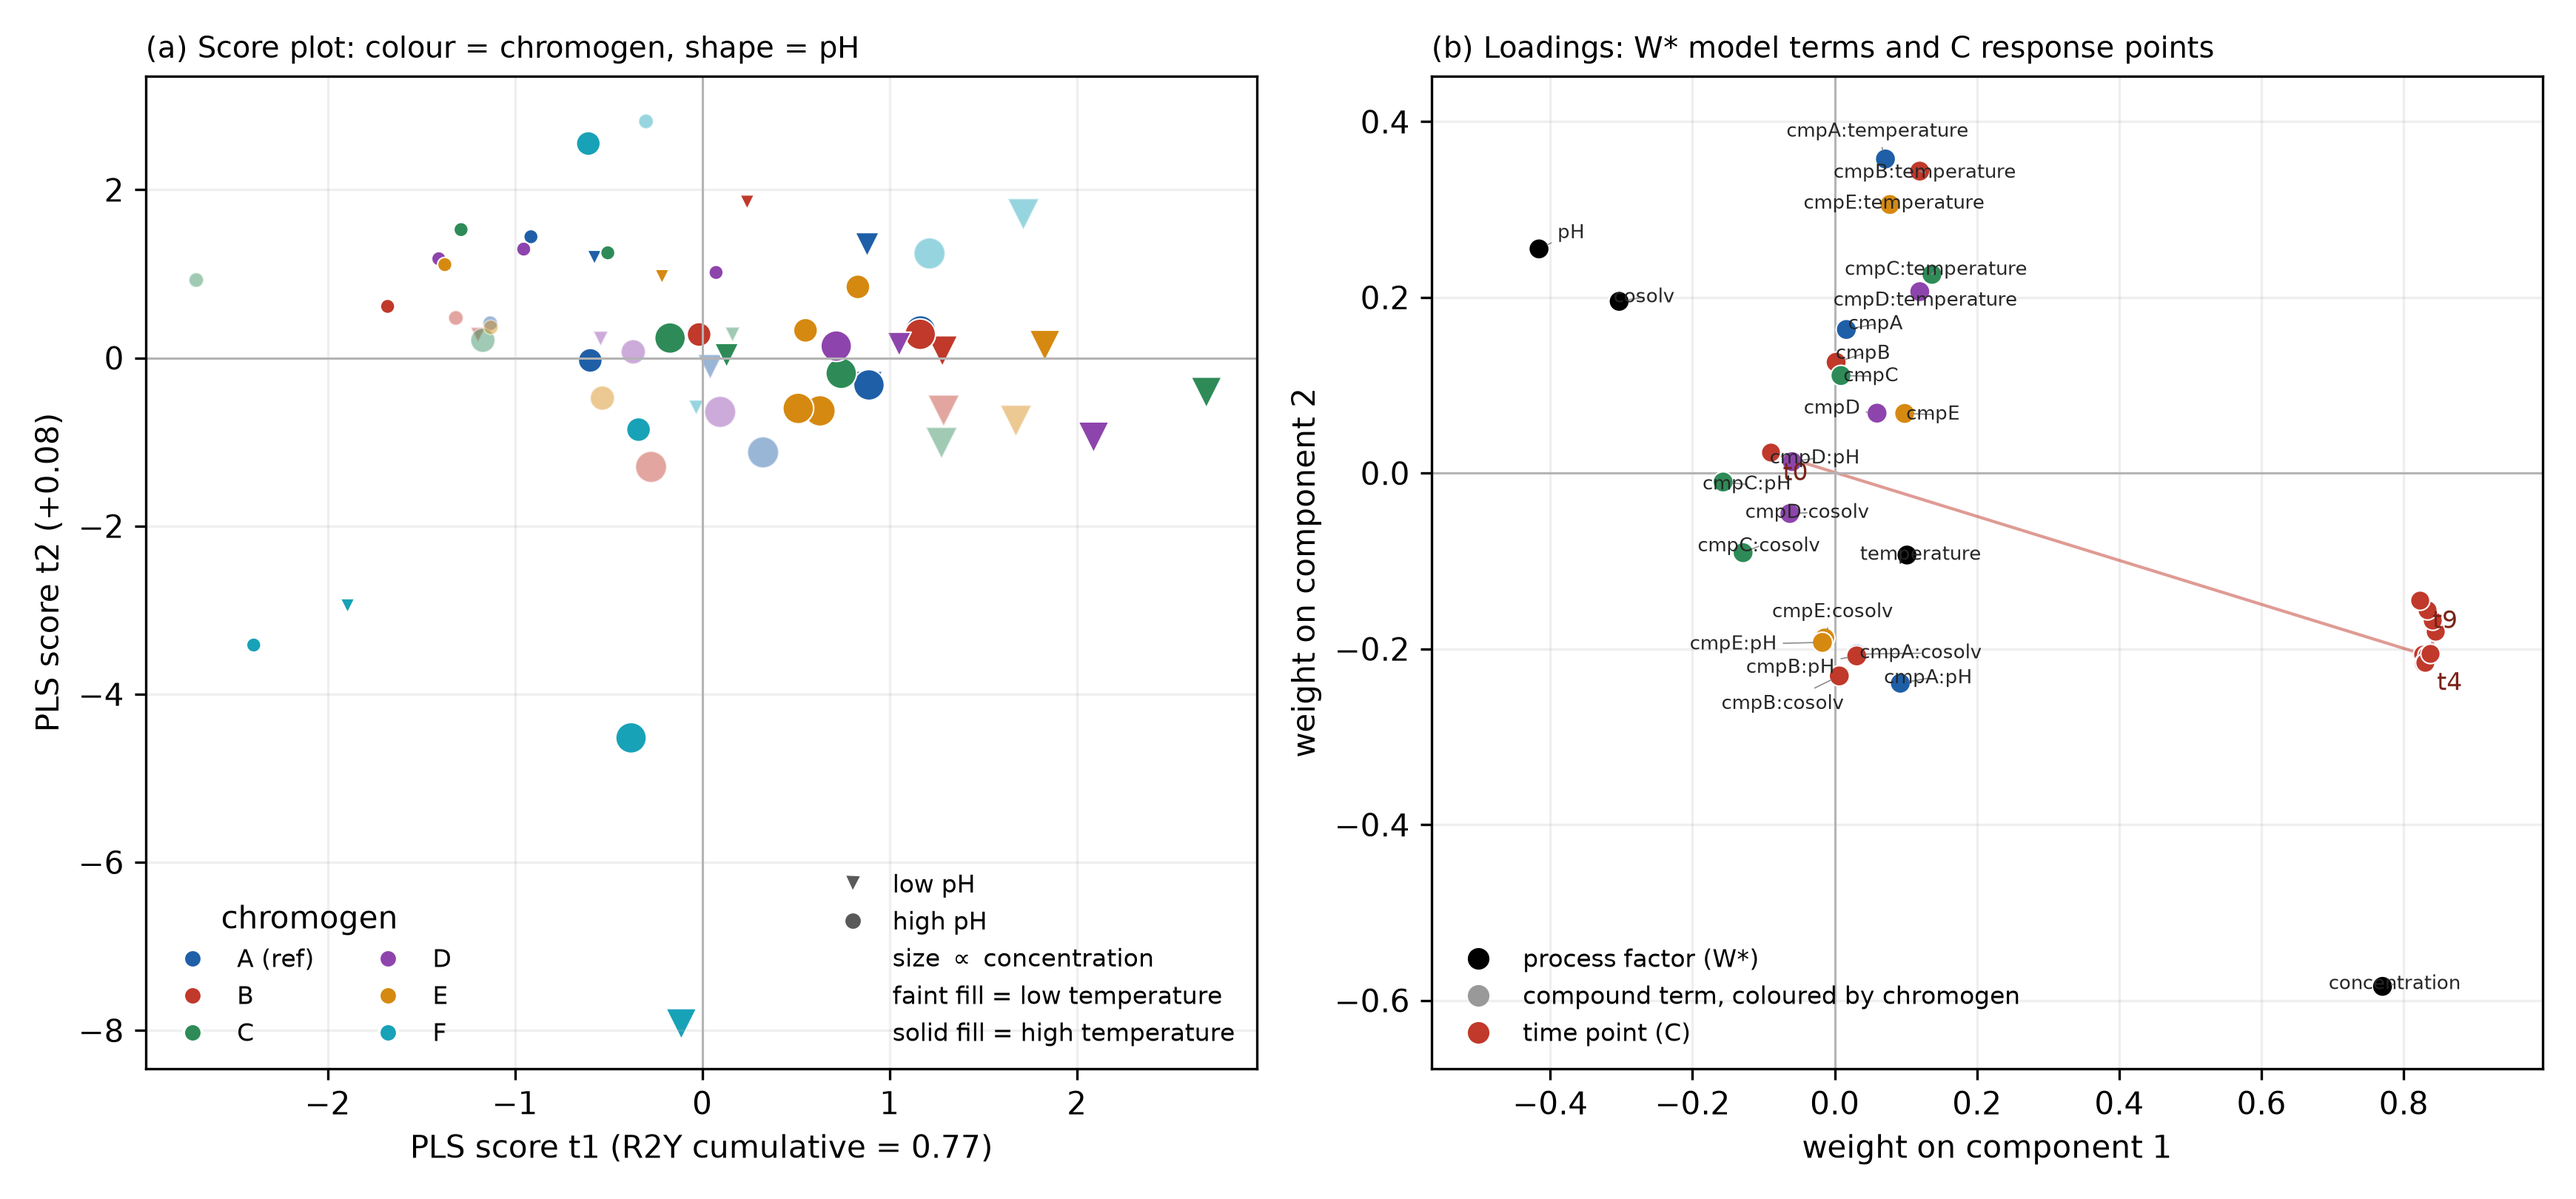
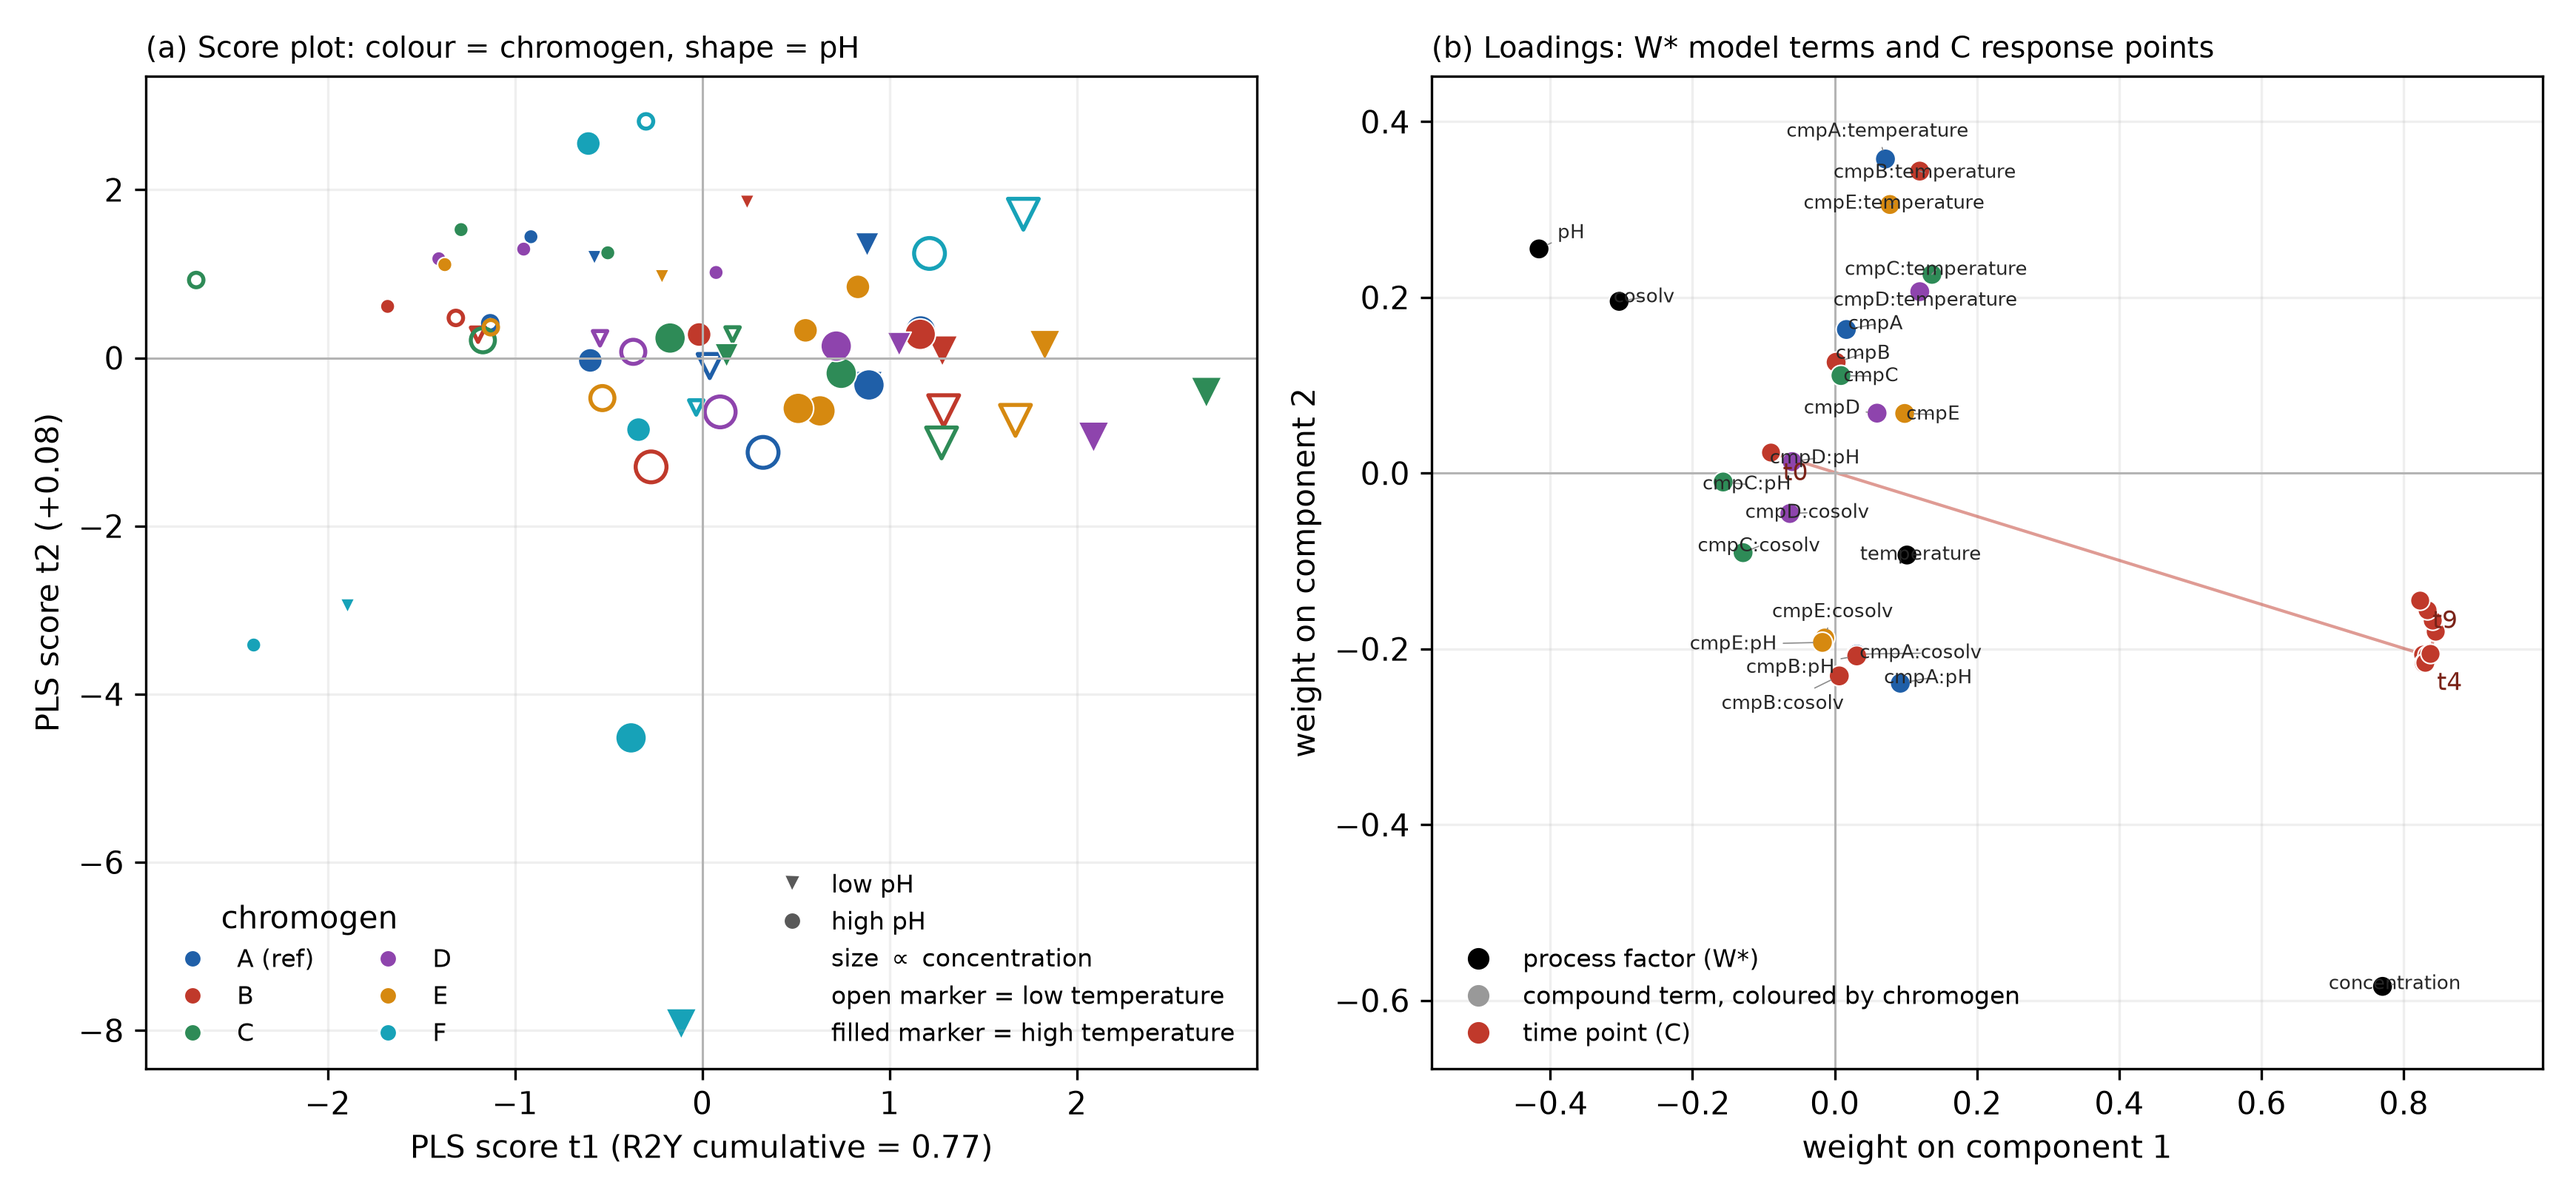
Encode temperature as open vs filled markers instead of fill opacity
The alpha shading was not distinct enough. Draw an open, outline-only marker for
the low temperature setting and a filled marker for the high setting, which
separates the two clearly at any marker size. Update the lower-right legend text
to match.

diff --git a/doe/colour-pls-interaction-scores-loadings.py b/doe/colour-pls-interaction-scores-loadings.py
@@ -50,17 +50,20 @@ fig, (axS, axL) = plt.subplots(1, 2, figsize=(11.6, 5.4))
 
 # --- Panel A: scores, four encodings ---
 # colour = compound; shape = pH (down triangle low, circle high); marker area grows with the coded
-# concentration; fill opacity shows temperature (faint low, solid high). The size and temperature
-# keys are stated as text in the lower-right legend rather than with extra sample markers.
+# concentration; temperature is open (outline-only) markers at the low setting and filled at the
+# high setting. The size and temperature keys are stated as text in the lower-right legend.
 temp = adf["temperature"].to_numpy(float)
 size = 22 + 78 * (conc + 1) / 2          # coded concentration in [-1, 1] -> marker area
 for c, colour in zip(COMPOUND_LEVELS, palette):
     for lo_pH, marker in ((True, "v"), (False, "o")):
-        for lo_temp, alpha in ((True, 0.45), (False, 1.0)):
-            m = (compound == c) & ((pH < 0) == lo_pH) & ((temp < 0) == lo_temp)
-            if m.any():
-                axS.scatter(scores[m, 0], scores[m, 1], s=size[m], color=colour, marker=marker,
-                            alpha=alpha, edgecolor="w", linewidth=0.5)
+        lo_t = (compound == c) & ((pH < 0) == lo_pH) & (temp < 0)
+        hi_t = (compound == c) & ((pH < 0) == lo_pH) & (temp >= 0)
+        if lo_t.any():                     # low temperature: open marker, coloured outline
+            axS.scatter(scores[lo_t, 0], scores[lo_t, 1], s=size[lo_t], facecolors="none",
+                        edgecolors=colour, marker=marker, linewidth=1.3)
+        if hi_t.any():                     # high temperature: filled marker
+            axS.scatter(scores[hi_t, 0], scores[hi_t, 1], s=size[hi_t], color=colour, marker=marker,
+                        edgecolor="w", linewidth=0.5)
 axS.axhline(0, color="0.7", lw=0.7)
 axS.axvline(0, color="0.7", lw=0.7)
 axS.set_xlabel(f"PLS score t1 (R2Y cumulative = {r2_1:.2f})")
@@ -74,8 +77,8 @@ enc_handles = [
     Line2D([], [], marker="v", ls="", color="0.35", markeredgecolor="w", label="low pH"),
     Line2D([], [], marker="o", ls="", color="0.35", markeredgecolor="w", label="high pH"),
     Line2D([], [], marker="None", ls="", label=r"size $\propto$ concentration"),
-    Line2D([], [], marker="None", ls="", label="faint fill = low temperature"),
-    Line2D([], [], marker="None", ls="", label="solid fill = high temperature"),
+    Line2D([], [], marker="None", ls="", label="open marker = low temperature"),
+    Line2D([], [], marker="None", ls="", label="filled marker = high temperature"),
 ]
 leg1 = axS.legend(handles=colour_handles, frameon=False, fontsize=8, ncol=2, loc="lower left",
                   title="chromogen")
